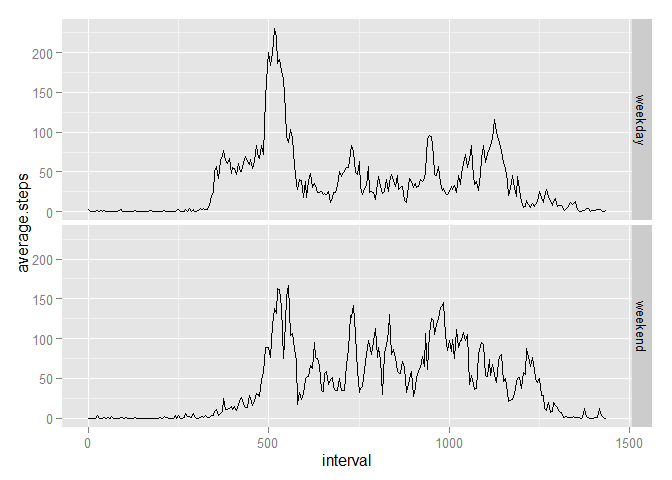
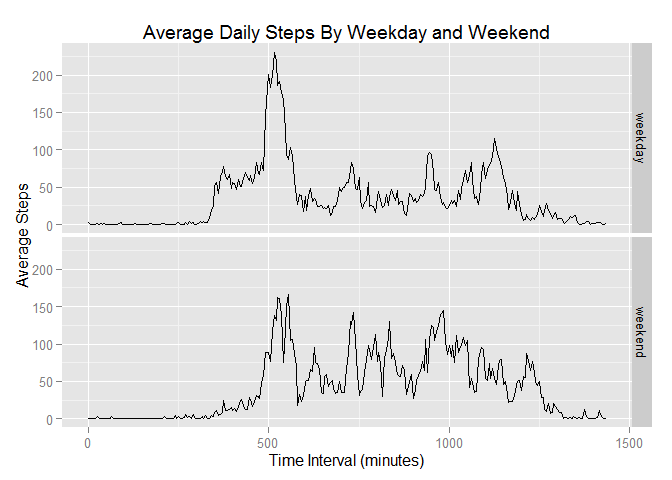
revise labels for last panel plot

diff --git a/RepResearchPA1.html b/RepResearchPA1.html
@@ -132,7 +132,7 @@ title &lt;- &quot;Total Daily Steps Taken 2012-10-02 thru 2012-11-29&quot;
 createHistogram(activity.summ, &quot;Total.Steps&quot;, &quot;darkgreen&quot;, &quot;white&quot;,
                 1000, seq(0, 11, 1), title, &quot;Total Daily Steps&quot;)</code></pre>
[1 lines of base64/hex data omitted]
-<p>The <strong>mean</strong> number of steps taken per day was 10766.19<br />The <strong>median</strong> number of steps taken per day was 10765</p>
+<p>The <strong>mean</strong> number of steps taken per day was <strong>10766.19</strong><br />The <strong>median</strong> number of steps taken per day was <strong>10765</strong></p>
 </div>
 <div id="what-is-the-average-daily-activity-pattern" class="section level2">
 <h2>What is the average daily activity pattern?</h2>
@@ -165,16 +165,16 @@ for(i in 1:length(interval)) {
 <p>With the gaps removed, the code below uses the <strong>ggplot2</strong> package to generate the line plot (point symbols omitted):</p>
 <pre class="r"><code>p2 &lt;- ggplot(time.series.df, aes(x = interval, y = average.steps))
 p2 &lt;- p2 + ggtitle(&quot;Average Daily Steps Per 5-Minute Time Interval&quot;)
-p2 &lt;- p2 + labs(x = &quot;Interval&quot;, y = &quot;Average Steps&quot;)
+p2 &lt;- p2 + labs(x = &quot;Time Interval (minutes)&quot;, y = &quot;Average Steps&quot;)
 #p2 &lt;- p2 + geom_point(size = 2)
 p2 &lt;- p2 + geom_line()
 print(p2)</code></pre>
[2 lines of base64/hex data omitted]
 <p>The following code finds the 5-minute interval with the maximum number of steps:</p>
 <pre class="r"><code>indexOfMax &lt;- which.max(time.series.df$average.steps)
 maxInterval &lt;- time.series.df$interval[indexOfMax]
 maxSteps &lt;- time.series.df$average.steps[indexOfMax]</code></pre>
-<p>The 5-minute interval where the maximum number of steps are taken is 515. The maximum of average steps in the data was 206.17</p>
+<p>The 5-minute interval where the maximum number of steps are taken is <strong>515</strong>.<br />The maximum of average steps in the data was <strong>206.17</strong></p>
 </div>
 <div id="imputing-missing-values" class="section level2">
 <h2>Imputing missing values</h2>
@@ -216,7 +216,7 @@ createHistogram(daily.steps, &quot;Total.Steps&quot;, &quot;blue&quot;, &quot;wh
 <pre class="r"><code># calculate the new mean and median values
 mean.imp &lt;- mean(daily.steps$Total.Steps)
 median.imp &lt;- median(daily.steps$Total.Steps)</code></pre>
-<p>After imputting NAs, <strong>mean</strong> number of steps taken per day = 10766.19<br />After imputing NAs, <strong>median</strong> number of steps taken per day = 10766.19</p>
+<p>After imputting NAs, <strong>mean</strong> number of steps taken per day = <strong>10766.19</strong><br />After imputing NAs, <strong>median</strong> number of steps taken per day = <strong>10766.19</strong></p>
 <p>Imputting the NAs in the way described above did not change the value of the <strong>mean</strong>. The <strong>median</strong> value changed only slightly because it was already very close to the mean. The only noticable change is the lengthening of the bin containing the mean in the histogram. These results were to be expected since we added more mean values to the data.</p>
 </div>
 </div>
@@ -260,12 +260,14 @@ for(j in j.start:(2*length(interval))) {
         mean(intervalStepsWeekends$steps)
 }
 
-g &lt;- ggplot(time.series.df.imputed,
+p3 &lt;- ggplot(time.series.df.imputed,
             aes(x = interval, y = average.steps, fill = day.type))
-g &lt;- g + geom_line()
-g &lt;- g+ facet_grid(day.type ~ .)
-print(g)</code></pre>
[1 lines of base64/hex data omitted]
+p3 &lt;- p3 + ggtitle(&quot;Average Daily Steps By Weekday and Weekend&quot;)
+p3 &lt;- p3 + labs(x = &quot;Time Interval (minutes)&quot;, y = &quot;Average Steps&quot;)
+p3 &lt;- p3 + geom_line()
+p3 &lt;- p3+ facet_grid(day.type ~ .)
+print(p3)</code></pre>
[1 lines of base64/hex data omitted]
 </div>
 
 

diff --git a/RepResearchPA1.md b/RepResearchPA1.md
@@ -76,8 +76,8 @@ createHistogram(activity.summ, "Total.Steps", "darkgreen", "white",
 
 ![](RepResearchPA1_files/figure-html/unnamed-chunk-2-1.png) 
 
-The **mean** number of steps taken per day was 10766.19  
-The **median** number of steps taken per day was 10765  
+The **mean** number of steps taken per day was **10766.19**  
+The **median** number of steps taken per day was **10765**  
 
 ## What is the average daily activity pattern?
 
@@ -123,7 +123,7 @@ line plot (point symbols omitted):
 ```r
 p2 <- ggplot(time.series.df, aes(x = interval, y = average.steps))
 p2 <- p2 + ggtitle("Average Daily Steps Per 5-Minute Time Interval")
-p2 <- p2 + labs(x = "Interval", y = "Average Steps")
+p2 <- p2 + labs(x = "Time Interval (minutes)", y = "Average Steps")
 #p2 <- p2 + geom_point(size = 2)
 p2 <- p2 + geom_line()
 print(p2)
@@ -142,7 +142,8 @@ maxSteps <- time.series.df$average.steps[indexOfMax]
 ```
 
 The 5-minute interval where the maximum number of steps are taken is 
-515.  The maximum of average steps in the data was 206.17
+**515**.  
+The maximum of average steps in the data was **206.17**
   
 ## Imputing missing values  
 ### Number of missing (NA) values in the **steps** field.
@@ -194,8 +195,8 @@ mean.imp <- mean(daily.steps$Total.Steps)
 median.imp <- median(daily.steps$Total.Steps)
 ```
   
-After imputting NAs, **mean** number of steps taken per day = 10766.19  
-After imputing NAs, **median** number of steps taken per day = 10766.19
+After imputting NAs, **mean** number of steps taken per day = **10766.19**  
+After imputing NAs, **median** number of steps taken per day = **10766.19**
 
 Imputting the NAs in the way described above did not change the value of the 
 **mean**.  The **median** value changed only slightly because it was already 
@@ -244,11 +245,13 @@ for(j in j.start:(2*length(interval))) {
         mean(intervalStepsWeekends$steps)
 }
 
-g <- ggplot(time.series.df.imputed,
+p3 <- ggplot(time.series.df.imputed,
             aes(x = interval, y = average.steps, fill = day.type))
-g <- g + geom_line()
-g <- g+ facet_grid(day.type ~ .)
-print(g)
+p3 <- p3 + ggtitle("Average Daily Steps By Weekday and Weekend")
+p3 <- p3 + labs(x = "Time Interval (minutes)", y = "Average Steps")
+p3 <- p3 + geom_line()
+p3 <- p3+ facet_grid(day.type ~ .)
+print(p3)
 ```
 
 ![](RepResearchPA1_files/figure-html/unnamed-chunk-8-1.png) 
